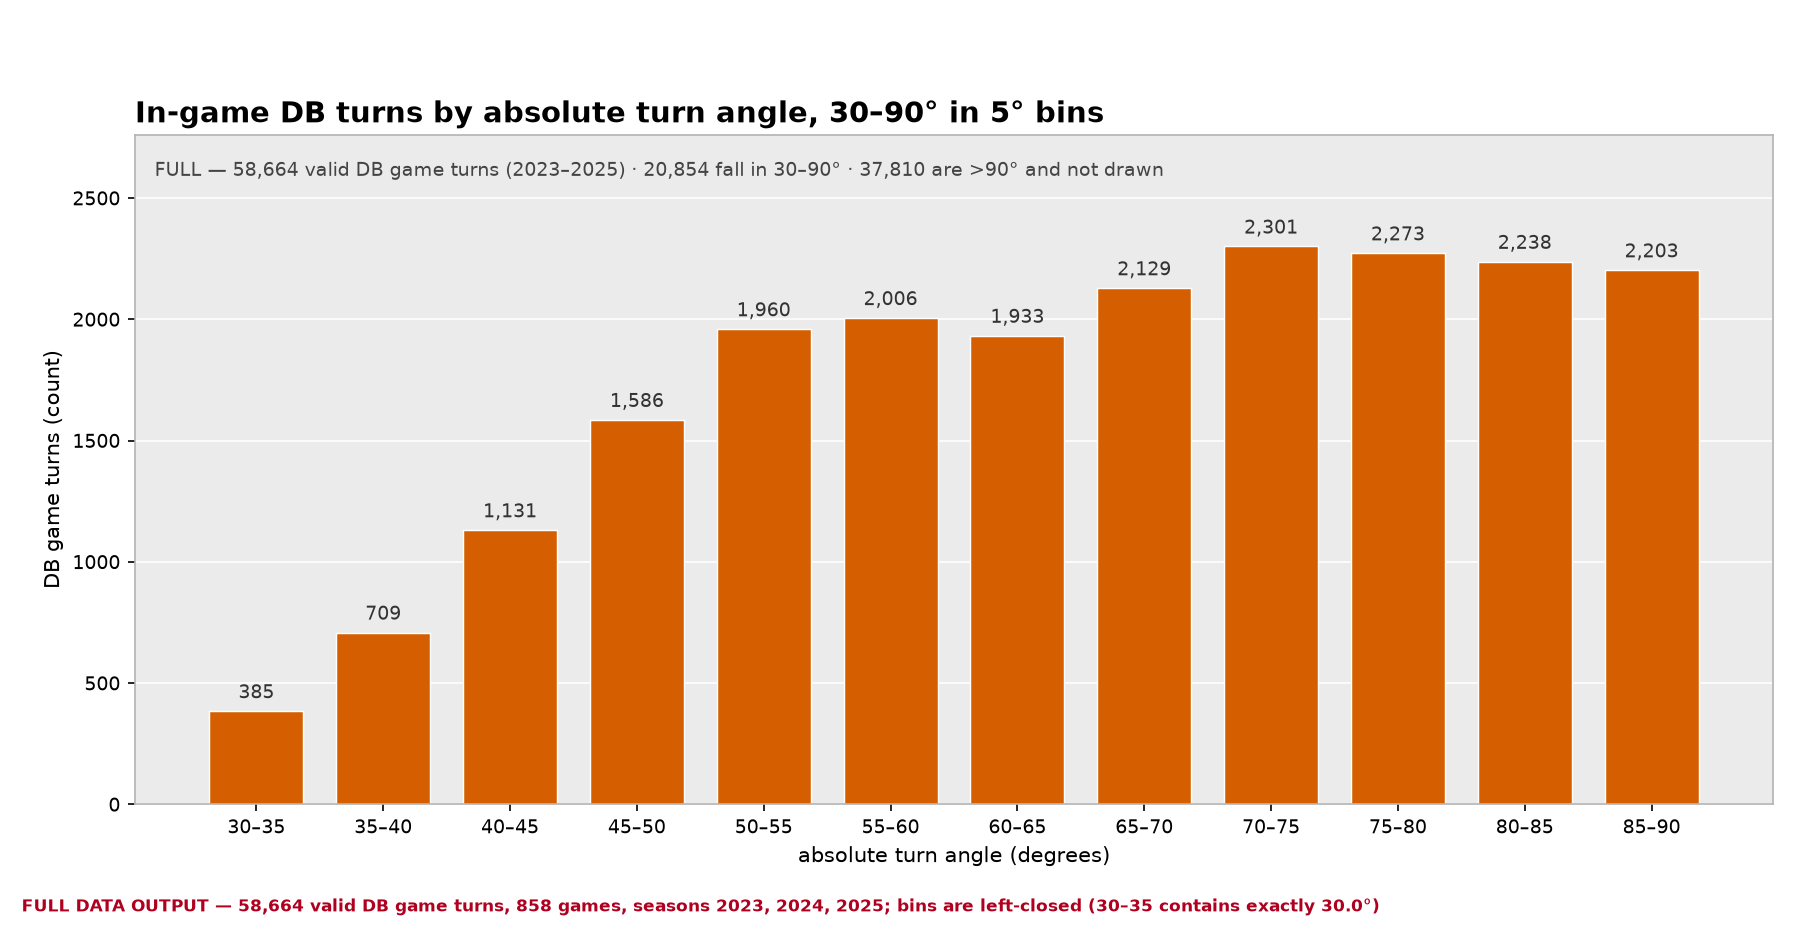
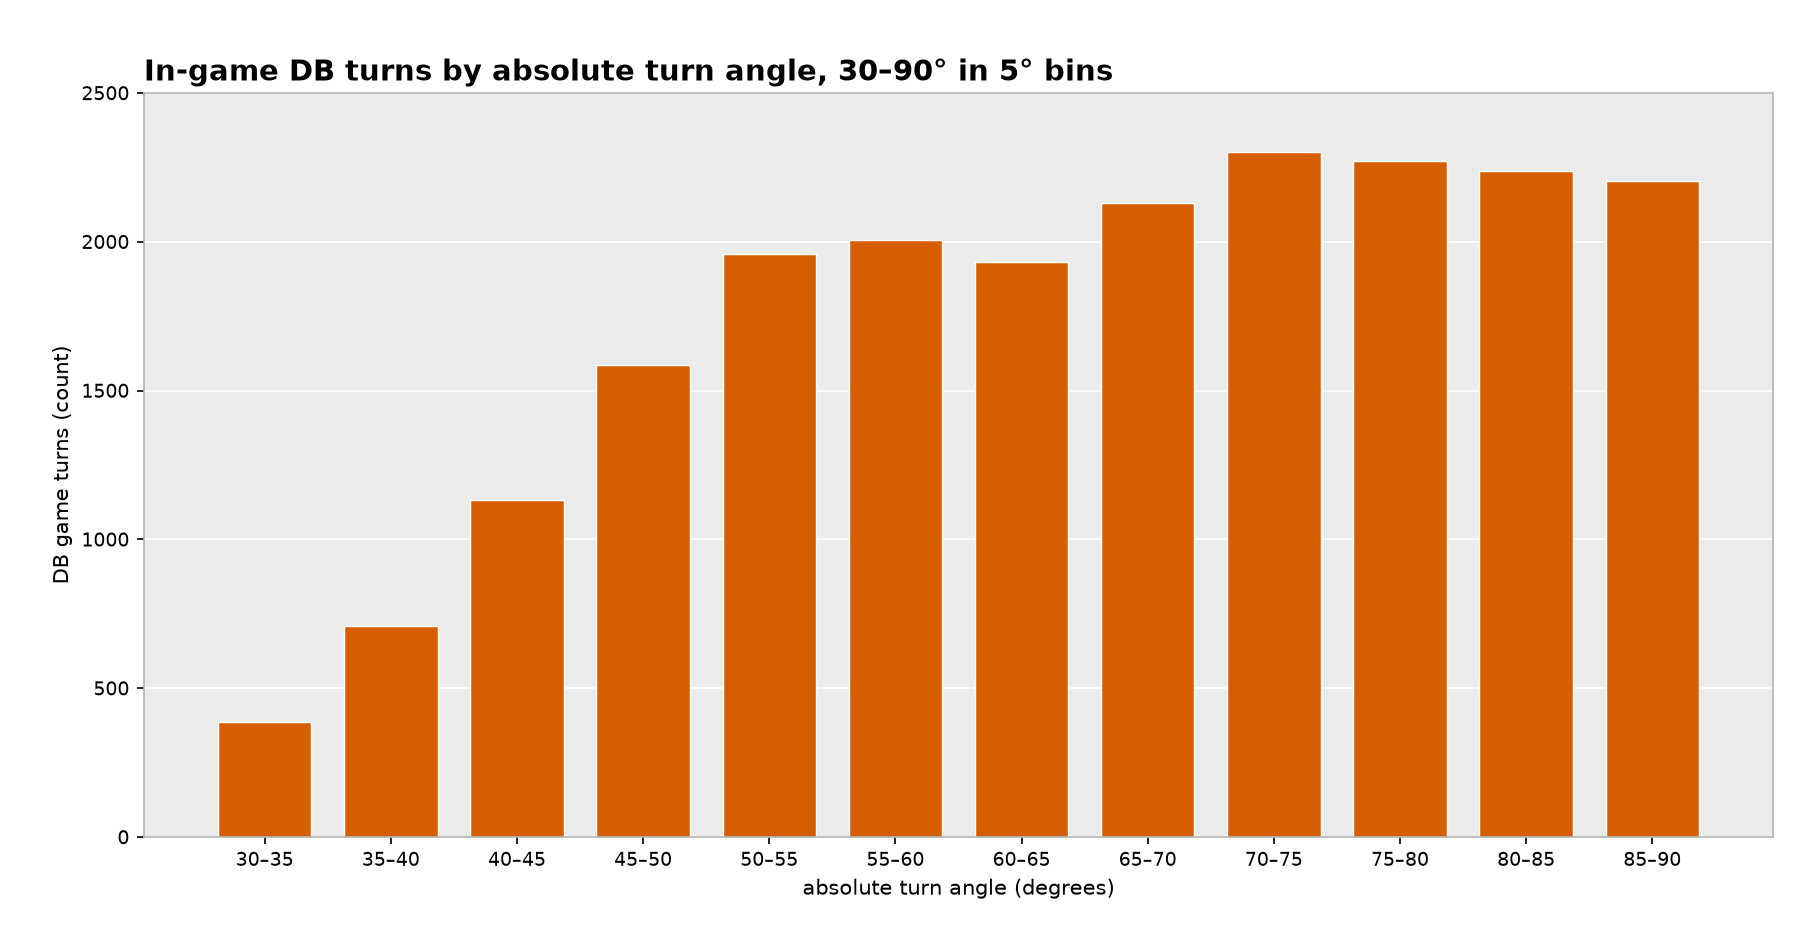
Turn-angle histogram face reduced to the title and axis labels (D195)

diff --git a/scripts/plot_turn_angle_hist.py b/scripts/plot_turn_angle_hist.py
@@ -54,7 +54,6 @@ BIN_LO, BIN_HI, BIN_W = 30.0, 90.0, 5.0
 GAME = "#D55E00"
 PANEL = "#EBEBEB"
 BORDER = "#B3B3B3"
-ALERT = "#B00020"
 
 
 def parse_args(argv=None):
@@ -142,13 +141,10 @@ def draw(table: pd.DataFrame, summary: dict, context: dict, out_png: Path) -> No
     ax.bar(x, table["count"], width=0.74, color=GAME, edgecolor="white",
            linewidth=0.7, zorder=2)
     top = int(table["count"].max())
-    for xi, count in zip(x, table["count"]):
-        ax.text(xi, count + top * 0.015, f"{int(count):,}", ha="center",
-                va="bottom", fontsize=9, color="#333333")
 
     ax.set_xticks(x)
     ax.set_xticklabels(table["bin"], fontsize=9)
-    ax.set_ylim(0, top * 1.20)
+    ax.set_ylim(0, max(2500, top * 1.06))
     ax.yaxis.grid(True, color="white", linewidth=0.8, zorder=0)
     ax.set_axisbelow(True)
     ax.set_xlabel("absolute turn angle (degrees)", fontsize=10)
@@ -160,20 +156,7 @@ def draw(table: pd.DataFrame, summary: dict, context: dict, out_png: Path) -> No
     ax.set_title("In-game DB turns by absolute turn angle, 30–90° in 5° bins",
                  fontsize=14, fontweight="bold", loc="left")
     ax.set_yticks(list(range(0, 2501, 500)))
-    ax.text(0.012, 0.96,
-            f"FULL — {summary['n']:,} valid DB game turns (2023–2025) · "
-            f"{summary['n_in_window']:,} fall in 30–90° · "
-            f"{summary['n_above_90']:,} are >90° and not drawn",
-            transform=ax.transAxes, ha="left", va="top", fontsize=9,
-            color="#444444")
-
-    fig.text(0.012, 0.02,
-             f"FULL DATA OUTPUT — {summary['n']:,} valid DB game turns, "
-             f"{context['games']:,} games, seasons "
-             f"{', '.join(str(s) for s in context['seasons'])}; bins are "
-             "left-closed (30–35 contains exactly 30.0°)",
-             fontsize=8, color=ALERT, fontweight="bold", ha="left")
-    fig.subplots_adjust(left=0.075, right=0.985, top=0.855, bottom=0.135)
+    fig.subplots_adjust(left=0.08, right=0.985, top=0.90, bottom=0.10)
 
     out_png.parent.mkdir(parents=True, exist_ok=True)
     fig.savefig(out_png, dpi=150, facecolor="white",

diff --git a/notes/decisions.md b/notes/decisions.md
@@ -8021,3 +8021,64 @@ number outside the corrected §4 changed.
 `data/interim/full_run_20261111/bdb27_full_db_turns.parquet`;
 `outputs/sensitivity/speed_floor/combine_db_turns_floor2.5_control.csv`;
 `bdb27_run/combine_turns.parquet` (plant share by drill: 3-cone 0.378, shuttle 0.971).
+
+## D195 — Turn-angle histogram face stripped to the title and the axis labels · 2026-11-13
+
+**Asked.** Conor, 20:36, replying to the rendered figure: "Do this again but remove all the
+unnecessary text, have the title and the axis labels". Three blocks of prose came off the face of
+`outputs/figures/fig_turn_angle_hist_30_90.png` (`scripts/plot_turn_angle_hist.py`, `draw()`):
+
+- the twelve per-bar count labels;
+- the in-axes note "FULL — 58,664 valid DB game turns (2023–2025) · 20,854 fall in 30–90° ·
+  37,810 are >90° and not drawn";
+- the figure-foot stamp "FULL DATA OUTPUT — 58,664 valid DB game turns, 858 games, seasons
+  2023, 2024, 2025; bins are left-closed (30–35 contains exactly 30.0°)".
+
+**What remains.** The title "In-game DB turns by absolute turn angle, 30–90° in 5° bins"; x label
+"absolute turn angle (degrees)"; y label "DB game turns (count)"; the twelve bin tick labels; the
+twelve bars; the white y grid; the spine styling. Verified on the rendered figure, not by reading
+the source: `ax.texts == []` and `fig.texts == []`, title/x/y labels present, 12 bars, y ticks
+0/500/1,000/1,500/2,000/2,500, no legend, no tick label overlapping the title.
+
+**Title unchanged.** It was written as a standalone heading, not as a lead-in to the removed
+blocks, so it reads correctly alone and was not tightened.
+
+**Layout.** The old margins existed to hold the text. `ylim` is now `max(2500, top*1.06)` — 2,500
+with the current tallest bar at 2,301 — which keeps the 2,500 tick inside the view (a flat
+`top*1.06` dropped it at 2,439) and still leaves headroom if a bar grows; `subplots_adjust` is
+left 0.08, right 0.985, top 0.90, bottom 0.10. Bars, colours, bin edges, title, labels, ticks,
+grid and spines are otherwise byte-for-byte the D193 styling.
+
+**The face loses the stamp; the record does not.** Every removed number is still in the artefacts:
+
+- `fig_turn_angle_hist_30_90.csv` is **unchanged byte-for-byte** (`sha256 d1b6ba73…`), still
+  carrying the twelve bin lows/highs, the counts 385 · 709 · 1,131 · 1,586 · 1,960 · 2,006 ·
+  1,933 · 2,129 · 2,301 · 2,273 · 2,238 · 2,203, `share_of_window`, `share_of_all`, and the
+  per-row `stamp` / `n_db_game_turns` 58,664 / `n_in_window` 20,854 / `n_below_30` 0 /
+  `n_above_90` 37,810.
+- `.provenance.json` and the merged manifest entry still carry n = 58,664, n_in_window = 20,854,
+  n_below_30 = 0, n_above_90 = 37,810, games = 858, seasons [2023, 2024, 2025], all twelve edges
+  and counts, `stamp: FULL DATA OUTPUT`, `band_crosscheck.matches: true`, and the caveat naming
+  the 37,810 turns >90° that are not drawn. Manifest `bins_deg` equals the provenance's, and
+  manifest `png_sha256` equals the new PNG.
+
+**Recoverability.** The annotated render stays in git history — drawn at `df402a2`, unchanged
+through `2bb4b84` and `1d4ead4`; this commit rewrites the same path so the clean figure sits where
+Conor expects it.
+
+**One field not regenerated.** `2bb4b84` hand-added `artefact_commit` to this figure's
+`.provenance.json` and manifest entry. `common.write_json` does not emit that key and no other
+figure carries it, so re-rendering drops it rather than restoring a field the generator does not
+own; the artefact's commit is recoverable from `git log -- outputs/figures/fig_turn_angle_hist_30_90.png`.
+No other provenance field changed.
+
+**Not touched.** `notes/report-draft.md`, `TASK.md`, the four-figure set, `config.yaml`, any
+pipeline stage, the CSV, and the figure's `exploratory: true` / `in_report: false` status.
+
+**Tests.** `./.venv/bin/python -m pytest -q` — 361 collected, 361 passed, exit 0, run on the tree
+that is being committed. No test asserted the count labels or the foot note, so no assertion had to
+change; the CSV and manifest checks still run against the untouched artefacts.
+
+**Evidence.** `scripts/plot_turn_angle_hist.py`;
+`outputs/figures/fig_turn_angle_hist_30_90.png` (sha256 `4500ece0…`, 49,816 bytes),
+`.csv` (`d1b6ba73…`), `.provenance.json`; `outputs/figures/figures_manifest.json`.
